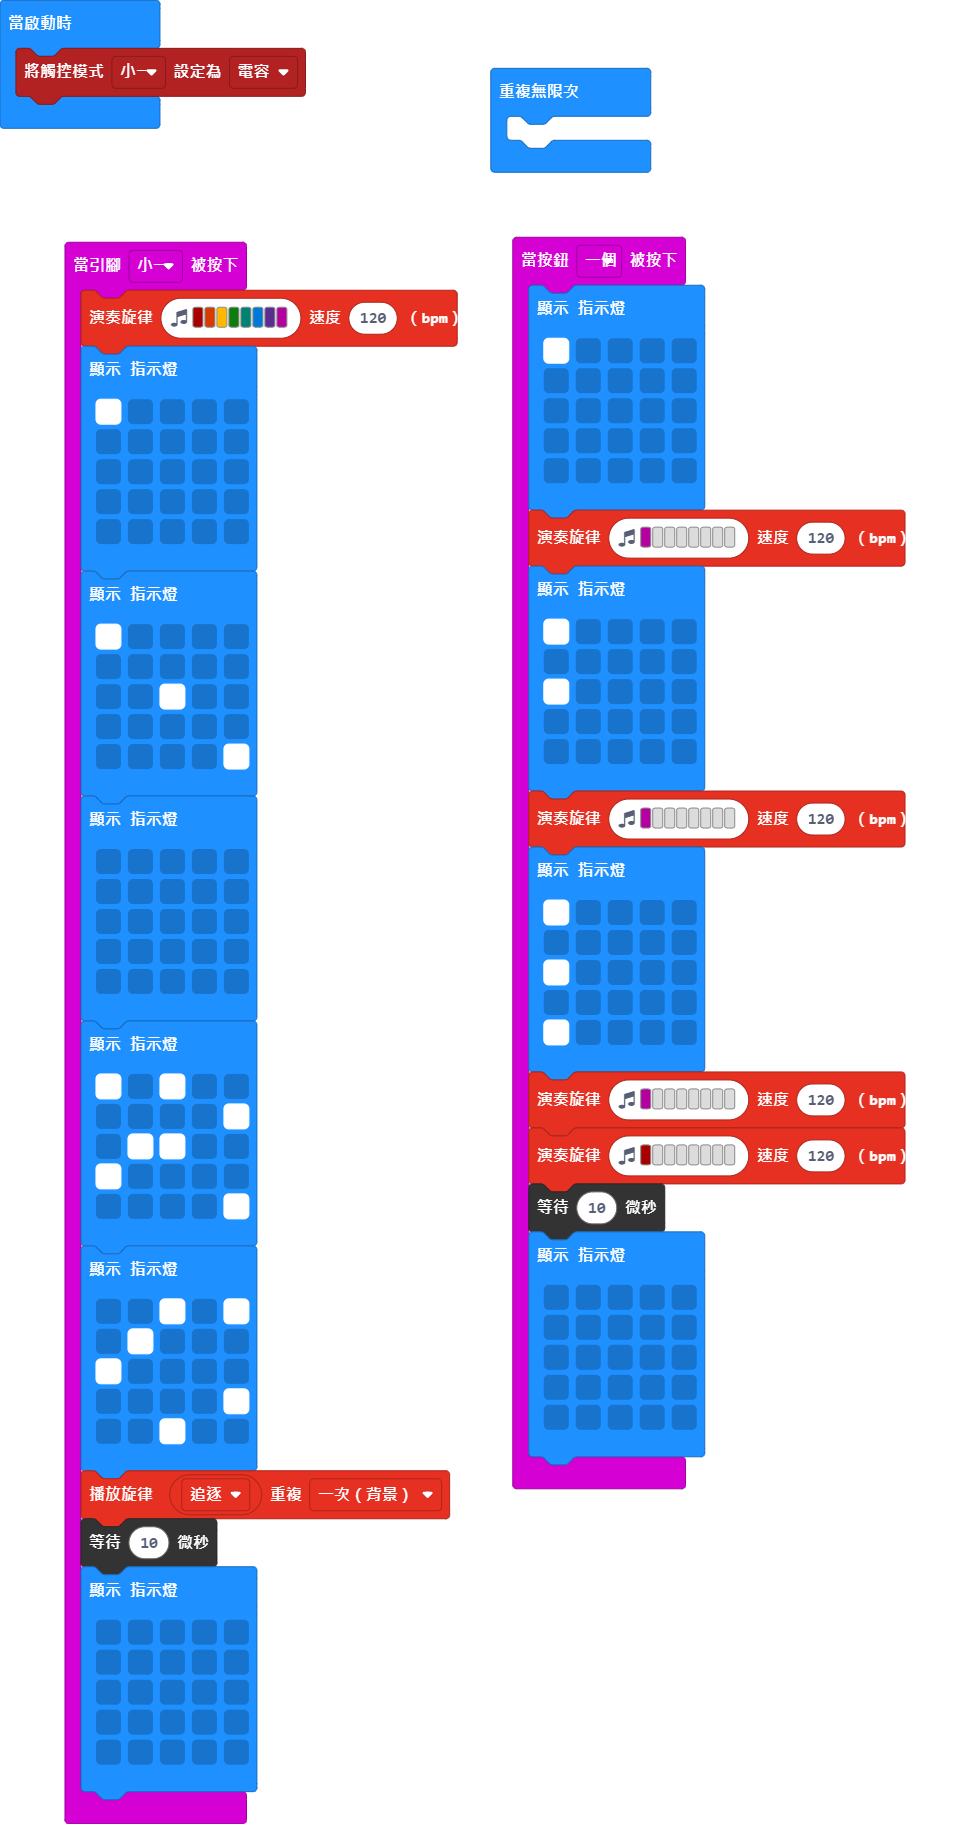
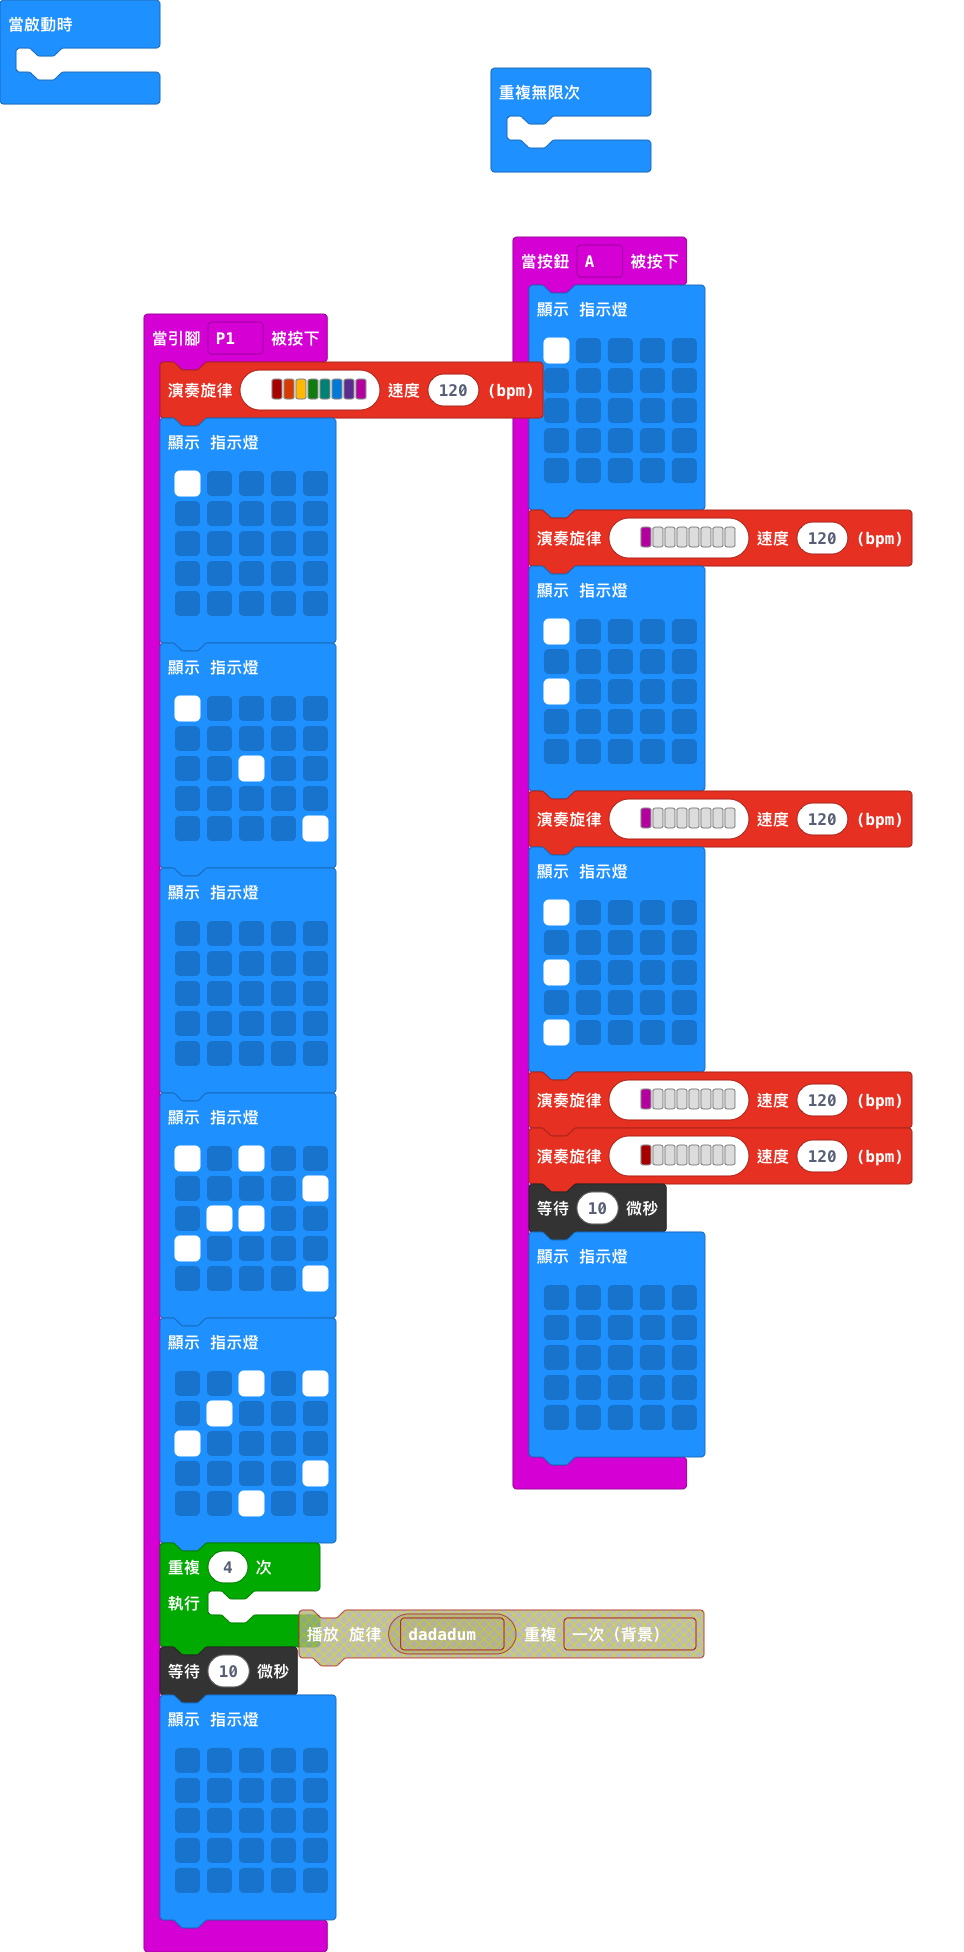
更新 main.blocks, main.ts

diff --git a/main.ts b/main.ts
@@ -80,7 +80,6 @@ input.onPinPressed(TouchPin.P1, function () {
         . . . . .
         `)
 })
-pins.touchSetMode(TouchTarget.P1, TouchTargetMode.Capacitive)
 basic.forever(function () {
 	
 })
